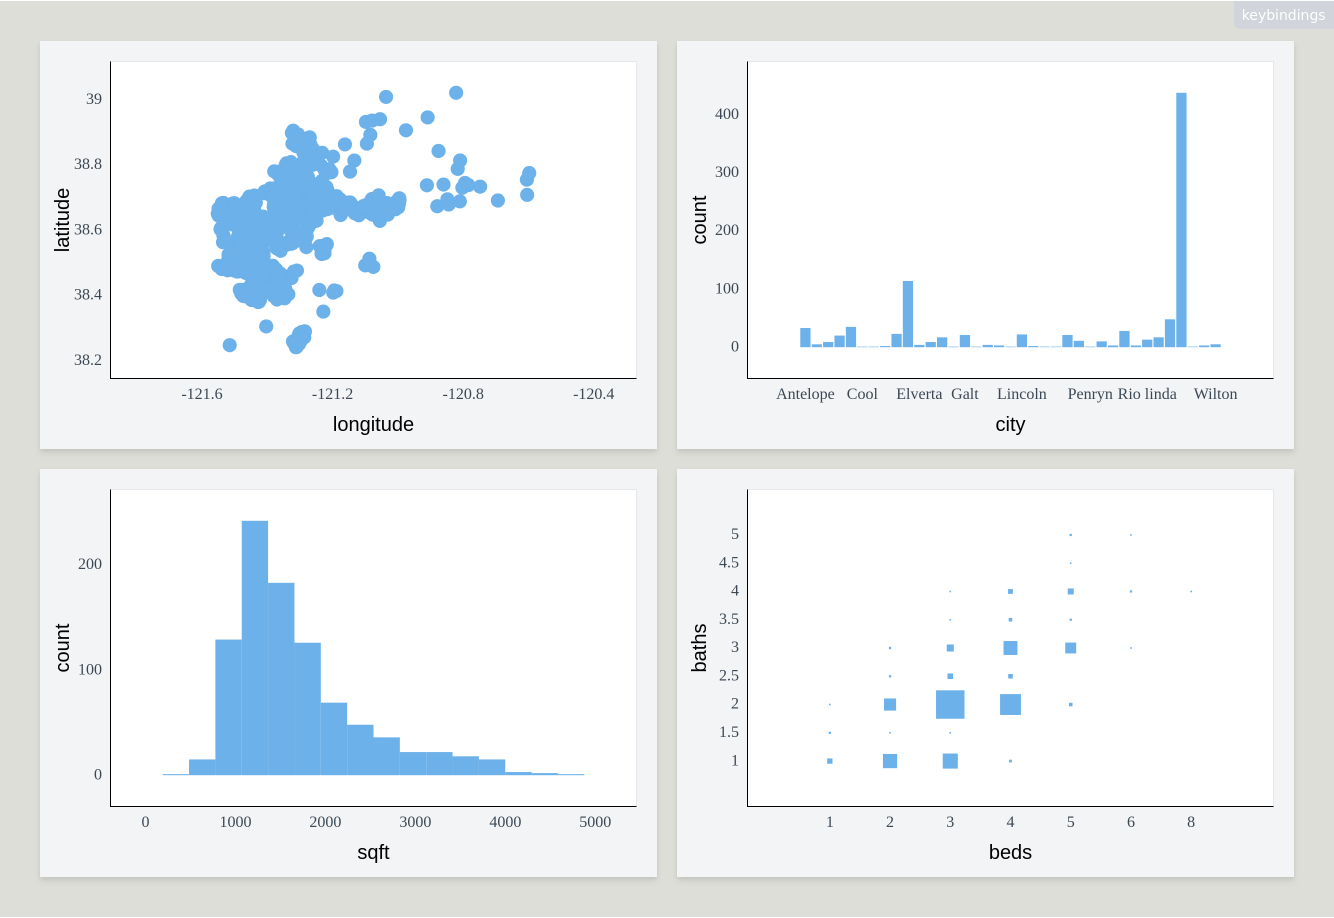
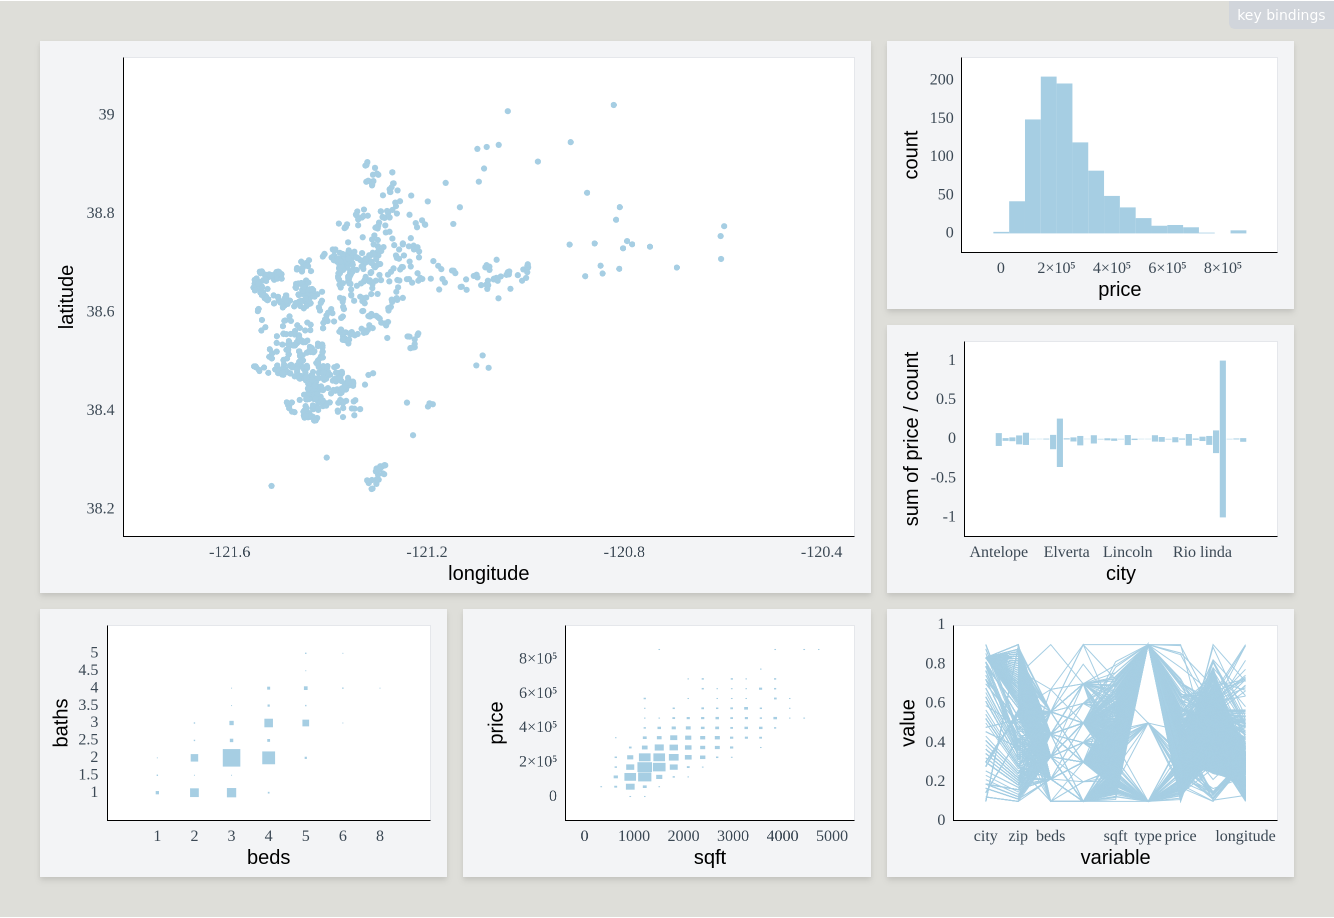
Updated README and figure screenshot

diff --git a/README.md b/README.md
@@ -35,23 +35,37 @@ const app = document.querySelector<HTMLDivElement>("#app")!;
 if (!app.style.width) app.style.width = `800px`;
 if (!app.style.height) app.style.height = `500px`;
 
+// Fetch data
 const URL = `https://raw.githubusercontent.com/bartonicek/plotscape/master/datasets/sacramento.json`;
 const sacramento = await fetchJSON(URL);
-sacramento.city = sacramento.city.map((x) => formatText(x));
+sacramento.city = sacramento.city.map((x: string) => formatText(x));
 
+// Set up a scene
 const scene = Scene.of(sacramento);
 Scene.append(app, scene);
 
+// Add plots
 const r = { ratio: 1 };
 const plot1 = Plot.scatter(scene, (d) => [d.longitude, d.latitude], r);
-const plot2 = Plot.bar(scene, (d) => [d.city]);
-const plot3 = Plot.histo(scene, (d) => [d.sqft]);
+const plot2 = Plot.histo(scene, (d) => [d.price]);
+const plot3 = Plot.bibar(scene, (d) => [d.city, d.price]);
 const plot4 = Plot.fluct(scene, (d) => [d.beds, d.baths]);
+const plot5 = Plot.histo2d(scene, (d) => [d.sqft, d.price]);
+const plot6 = Plot.pcoords(scene, (d) => Object.values(d));
 
 Scene.addPlot(scene, plot1);
 Scene.addPlot(scene, plot2);
 Scene.addPlot(scene, plot3);
 Scene.addPlot(scene, plot4);
+Scene.addPlot(scene, plot5);
+Scene.addPlot(scene, plot6);
+
+// Set layout
+Scene.setLayout(scene, [
+  [0, 0, 1],
+  [0, 0, 2],
+  [3, 4, 5],
+]);
 ```
 
 Finally, launch the development server:
